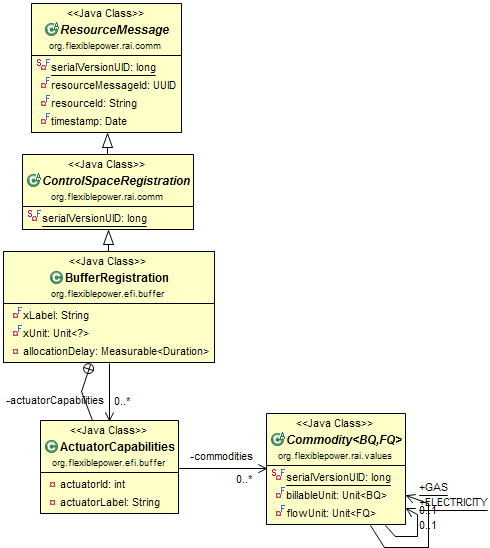
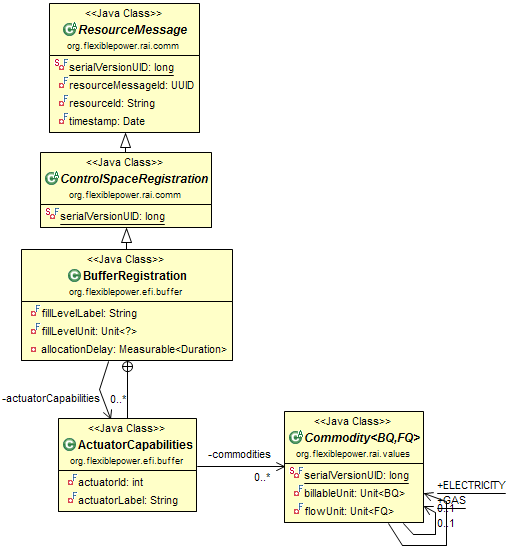
Buffer classes have been adapted to use fillLevel en fillingSpeed variable names instead of xValue and xs.

Changed region(s): [[0.0, 0.0, 1.0, 1.0]]

diff --git a/flexiblepower.api.efi/src/org/flexiblepower/efi/buffer/BufferRegistration.java b/flexiblepower.api.efi/src/org/flexiblepower/efi/buffer/BufferRegistration.java
@@ -13,14 +13,14 @@ import org.flexiblepower.rai.values.Commodity;
 public class BufferRegistration extends ControlSpaceRegistration {
 
     /**
-     * The label of x for display purposes in the UI
+     * The label of fill level for display purposes in the UI
      */
-    private final String xLabel;
+    private final String fillLevelLabel;
 
     /**
-     * The unit of x for display purposes in the UI
+     * The unit of fill level for display purposes in the UI
      */
-    private final Unit<?> xUnit;
+    private final Unit<?> fillLevelUnit;
 
     /**
      * The duration of the delay in communications channel from the moment of sending to the moment the command is
@@ -66,20 +66,20 @@ public class BufferRegistration extends ControlSpaceRegistration {
 
     public BufferRegistration(String resourceId,
                               Date timestamp,
-                              String xLabel,
-                              Unit<?> xUnit,
+                              String label,
+                              Unit<?> unit,
                               Set<ActuatorCapabilities> actuatorCapabilities) {
         super(resourceId, timestamp);
-        this.xLabel = xLabel;
-        this.xUnit = xUnit;
+        fillLevelLabel = label;
+        fillLevelUnit = unit;
         this.actuatorCapabilities = actuatorCapabilities;
     }
 
     public String getxLabel() {
-        return xLabel;
+        return fillLevelLabel;
     }
 
     public Unit<?> getxUnit() {
-        return xUnit;
+        return fillLevelUnit;
     }
 }

diff --git a/flexiblepower.api.efi/src/org/flexiblepower/efi/buffer/BufferStateUpdate.java b/flexiblepower.api.efi/src/org/flexiblepower/efi/buffer/BufferStateUpdate.java
@@ -45,22 +45,22 @@ public class BufferStateUpdate extends BufferUpdate {
         public Date finishedAt;
     }
 
-    private final double xValue;
+    private final double currentFillLevel;
     private final Set<ActuatorUpdate> currentRunningMode;
 
     public BufferStateUpdate(String resourceId,
                              Date timestamp,
                              Date validFrom,
                              Measurable<Duration> allocationDelay,
-                             double xValue,
+                             double currentFillLevel,
                              Set<ActuatorUpdate> currentRunningMode) {
         super(resourceId, timestamp, validFrom, allocationDelay);
-        this.xValue = xValue;
+        this.currentFillLevel = currentFillLevel;
         this.currentRunningMode = currentRunningMode;
     }
 
     public double getxValue() {
-        return xValue;
+        return currentFillLevel;
     }
 
     public Set<ActuatorUpdate> getCurrentRunningMode() {

diff --git a/flexiblepower.api.efi/src/org/flexiblepower/efi/buffer/RangeElement.java b/flexiblepower.api.efi/src/org/flexiblepower/efi/buffer/RangeElement.java
@@ -7,13 +7,13 @@ public class RangeElement {
     private final double upperBound;
 
     // Charge speed x / seconds
-    private final double xs;
+    private final double fillingSpeed;
 
-    public RangeElement(double lowerBound, double upperBound, double xs) {
+    public RangeElement(double lowerBound, double upperBound, double fillingSpeed) {
         super();
         this.lowerBound = lowerBound;
         this.upperBound = upperBound;
-        this.xs = xs;
+        this.fillingSpeed = fillingSpeed;
     }
 
     public double getLowerBound() {
@@ -25,7 +25,7 @@ public class RangeElement {
     }
 
     public double getXs() {
-        return xs;
+        return fillingSpeed;
     }
 
 }
